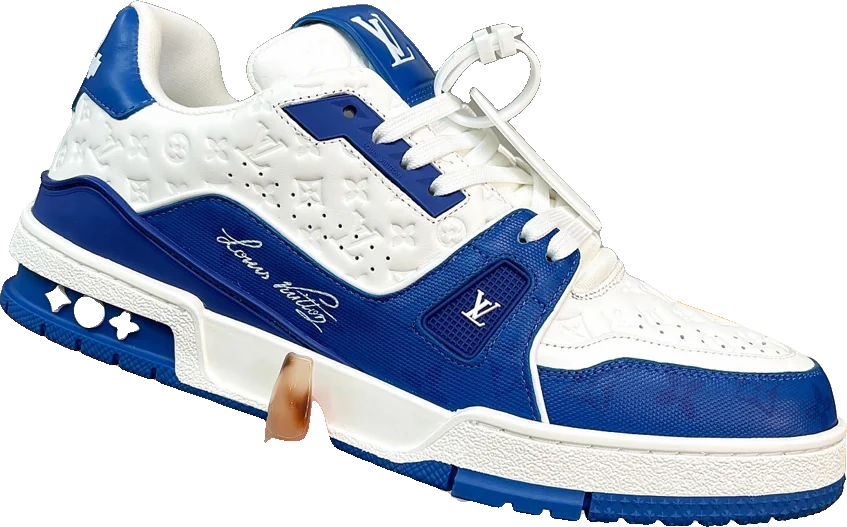
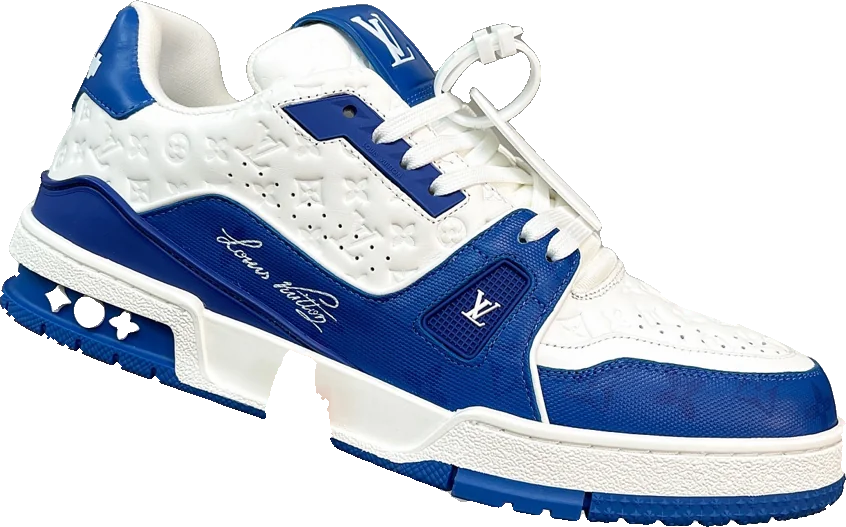
Improve mobile layout
- Hero: shorter, larger product, WhatsApp button hidden until you scroll
  past it so it no longer covers the product name.
- Even card grids (no orphan card in Lançamentos), two-line clamp on
  product names, tighter section spacing.
- Product page: one-line breadcrumb, 4-column size grid, WhatsApp float
  hidden behind the sticky buy bar.
- Footer wordmark no longer clipped; LV hero cutout cleaned up.

Claude-Session: https://claude.ai/code/session_01BU4SPgBhdZjbPCMDvYyhEG

diff --git a/cl-imports/index.html b/cl-imports/index.html
@@ -182,8 +182,14 @@
       .arrow svg { width: 36px; }
       .arrow.prev { left: 16px; } .arrow.next { right: 16px; }
       .hero-info { bottom: 64px; left: 0; right: 0; text-align: center; }
-      .stage { top: 44%; }
-      .wa-float { bottom: 66px; right: 14px; width: 52px; height: 52px; }
+      .hero { height: 86svh; min-height: 560px; }
+      .stage { width: 88vw; height: 50svh; top: 45%; }
+      #gridNew .pcard:nth-child(5) { display: none; }
+      .pname { display: -webkit-box; -webkit-line-clamp: 2; -webkit-box-orient: vertical; overflow: hidden; min-height: 2.5em; }
+      .pconsult { font-size: 10px; letter-spacing: .1em; }
+      .shop-head { margin-bottom: 18px; }
+      section.shop { padding-top: 56px; padding-bottom: 48px; }
+      .strip-title h2 { font-size: 40px; }
       .dots { right: 50%; transform: translateX(50%); bottom: 18px; gap: 6px; }
       .dots button { width: 22px; }
       .grid, .grid.big { grid-template-columns: repeat(2, 1fr); gap: 30px 12px; }
@@ -407,6 +413,10 @@
 
     // FAQ
     $("#faq").innerHTML = FAQ.map(f => `<details class="reveal"><summary>${esc(f.q)}</summary><p>${esc(f.a)}</p></details>`).join("");
+
+    // no celular, o botão do WhatsApp só aparece depois do topo (para não cobrir o nome do produto)
+    const waHero = () => document.body.classList.toggle("no-wa", scrollY < innerHeight * .55);
+    addEventListener("scroll", waHero, { passive: true }); waHero();
 
     animarAoRolar();
   </script>

diff --git a/cl-imports/interna.css b/cl-imports/interna.css
@@ -159,3 +159,21 @@ body.interna { background: #dcdcd9; color: #1c1c1c; }
 .more-wrap { text-align: center; margin-top: 54px; }
 .more-wrap .btn-ghost { display: inline-flex; width: auto; padding: 0 44px; }
 .side ul#sideBrands { max-height: 360px; overflow-y: auto; scrollbar-width: thin; }
+
+/* ===== Ajustes finos para celular ===== */
+@media (max-width: 900px) {
+  .crumbs { white-space: nowrap; overflow: hidden; text-overflow: ellipsis; padding-top: 22px; }
+  .page-head { padding-top: 16px; padding-bottom: 22px; gap: 6px; }
+  .page-head h1 { font-size: 38px; }
+  .lux-grid .pname { font-size: 16px; display: -webkit-box; -webkit-line-clamp: 2; -webkit-box-orient: vertical; overflow: hidden; min-height: 2.4em; }
+  .lux-grid .pcat { margin-top: 12px; font-size: 9px; }
+  .lux-grid .pconsult { font-size: 9.5px; letter-spacing: .16em; }
+  .prod { padding-top: 14px; gap: 24px; padding-bottom: 60px; }
+  .info h1 { font-size: 32px; }
+  .price-box { margin: 20px 0; padding: 18px 0; }
+  .sizes { display: grid; grid-template-columns: repeat(4, 1fr); }
+  .sizes button { min-width: 0; }
+  .buy-row { grid-template-columns: 104px 1fr; }
+  .related { padding-top: 56px; padding-bottom: 64px; }
+  .related .sec-t { margin-bottom: 30px; }
+}

diff --git a/cl-imports/comum.css b/cl-imports/comum.css
@@ -209,3 +209,17 @@ a.pcard { display: block; }
   .pcard, .reveal { opacity: 1; transform: none; }
 }
 header.site nav.main a { white-space: nowrap; }
+
+/* ===== Ajustes finos para celular ===== */
+@media (max-width: 900px) {
+  .wordmark span { font-size: 15.4vw; }
+  .perks { padding-top: 44px; padding-bottom: 44px; }
+  .perks-grid { gap: 26px; }
+  .perk::before { margin-bottom: 16px; }
+  .perk h3 { font-size: 20px; }
+  .wa-float { width: 52px; height: 52px; right: 14px; bottom: 16px; box-shadow: 0 0 0 6px rgba(37,211,102,.18); }
+  .wa-float svg { width: 26px; height: 26px; }
+  body.has-sticky .wa-float, body.no-wa .wa-float { opacity: 0; pointer-events: none; transform: scale(.6); }
+  .wa-float { transition: opacity .25s, transform .25s; }
+  .foot-top { gap: 26px 20px; padding-top: 44px; }
+}
